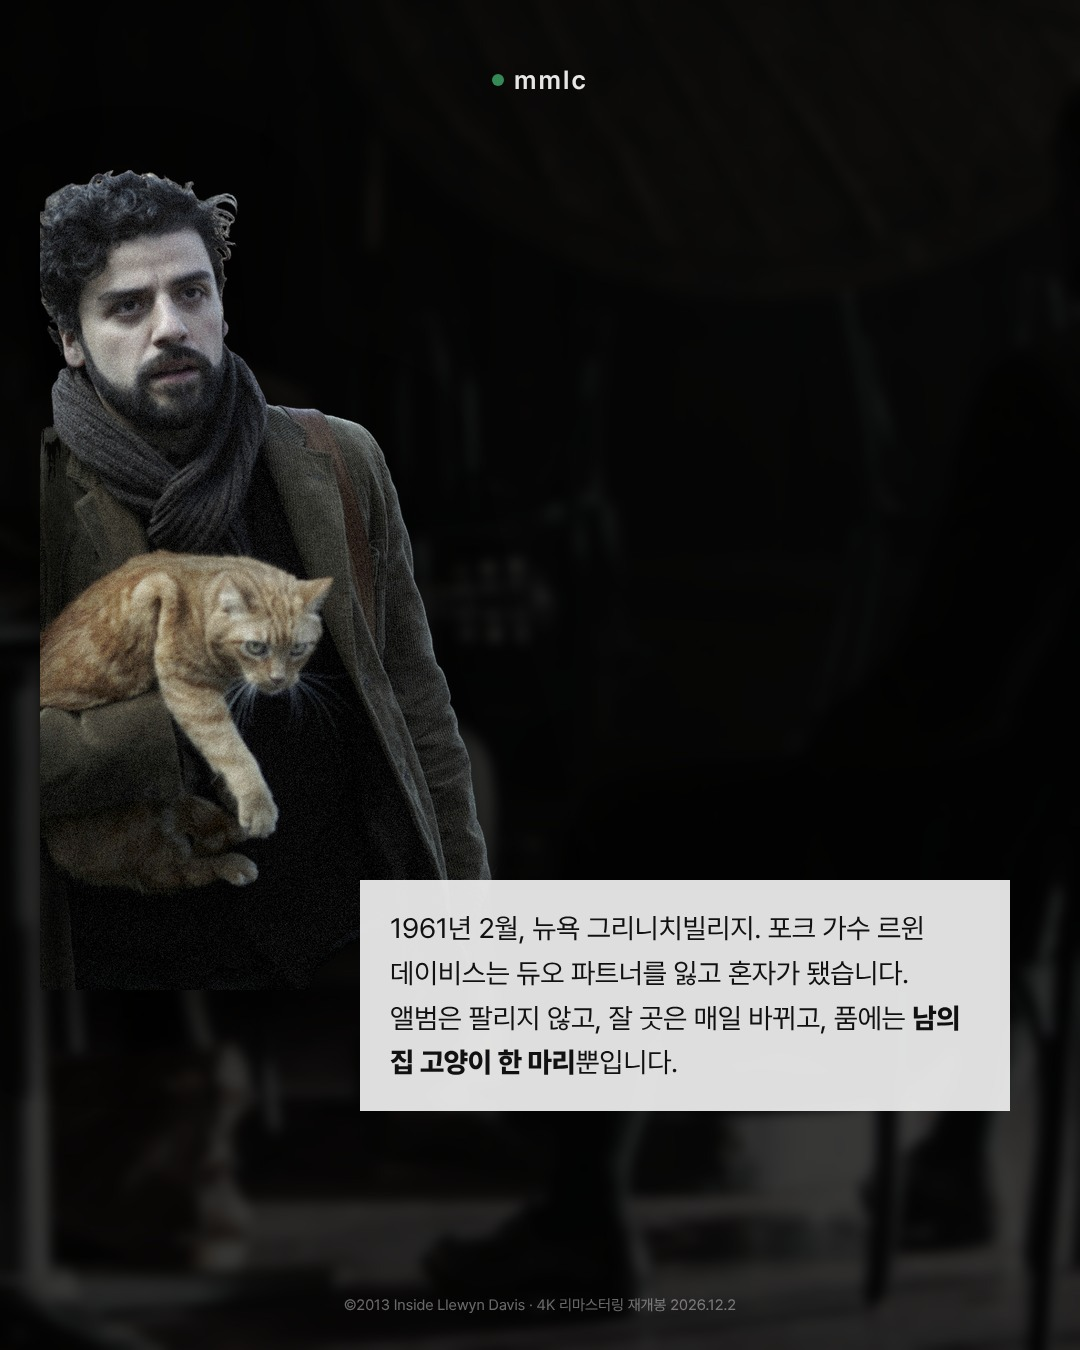
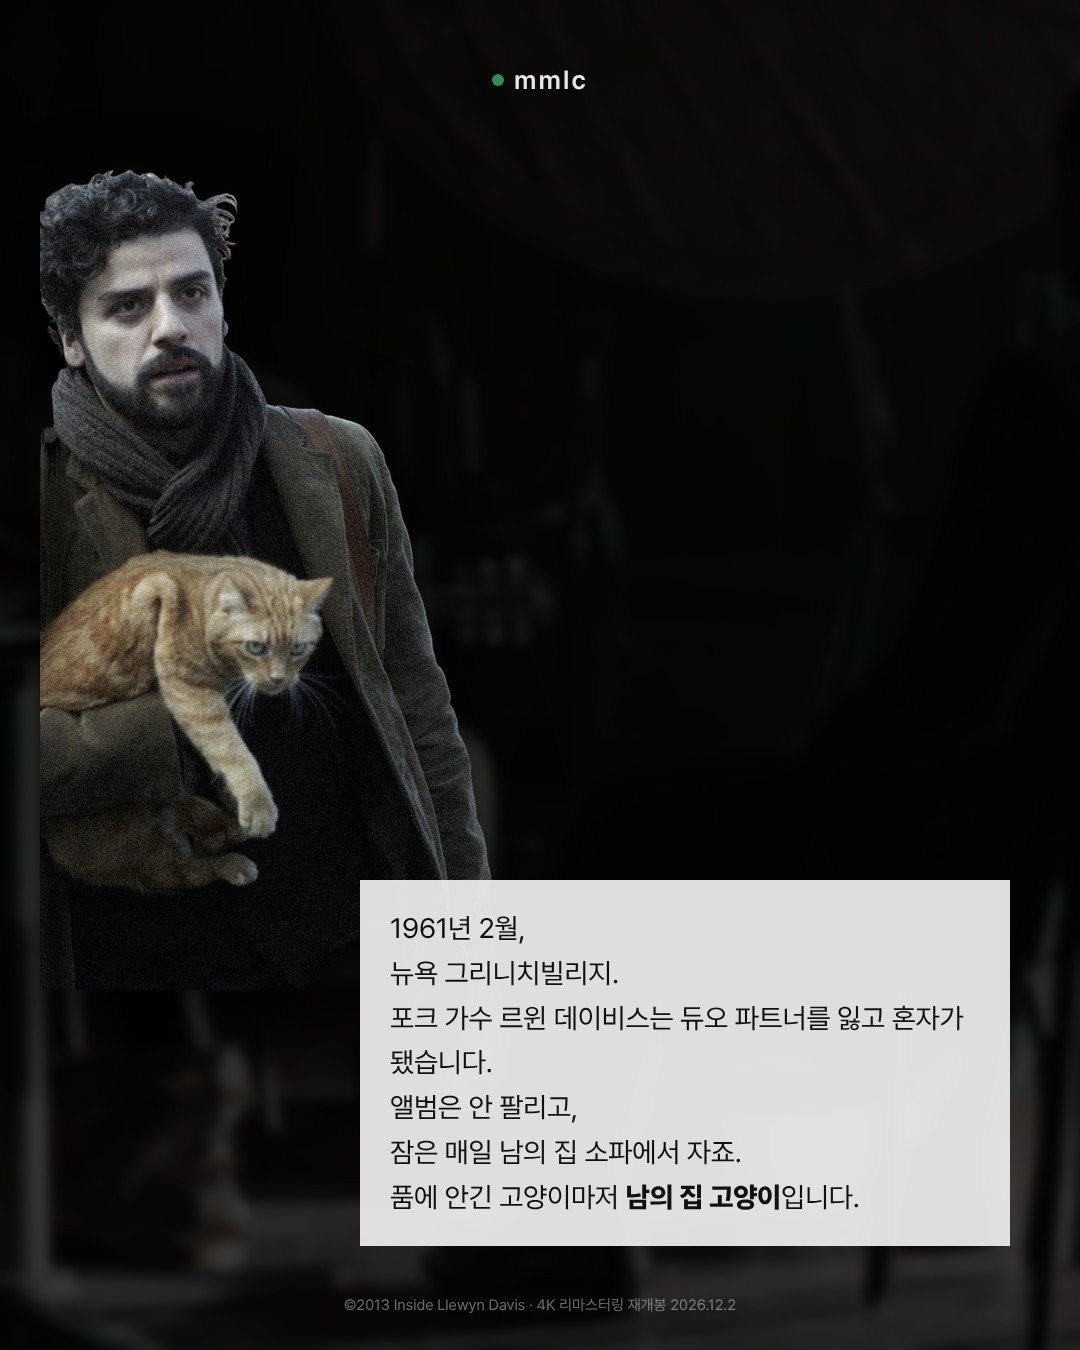
인사이드 르윈: 2~7장 본문 다듬기, 4장 캐스팅 비하인드로 교체
Claude-Session: https://claude.ai/code/session_01VEGji1Wx9t8xn4NvfBmGPJ

Changed region(s): [[0.3361, 0.6844, 0.9472, 0.9333]]

diff --git a/templates/story-article/llewyn/render.py b/templates/story-article/llewyn/render.py
@@ -48,37 +48,37 @@ P.append(wrap(f'<div class="bg" style="background-image:url({b(cov)})"></div><di
 d,cw,ch=png('cut_cat.png',820)
 P.append(wrap(f'''<div class="bg" style="background-image:url({bgdim('st6.jpg',0.5,0.5,0.22,6)})"></div>
 <img class="cut" src="{d}" style="left:40px;top:170px;width:{cw}px">
-<div class="box" style="top:880px;left:360px;right:70px">1961년 2월, 뉴욕 그리니치빌리지. 포크 가수 르윈 데이비스는 듀오 파트너를 잃고 혼자가 됐습니다. 앨범은 팔리지 않고, 잘 곳은 매일 바뀌고, 품에는 <b>남의 집 고양이 한 마리</b>뿐입니다.</div>
+<div class="box" style="top:880px;left:360px;right:70px">1961년 2월,<br>뉴욕 그리니치빌리지.<br>포크 가수 르윈 데이비스는 듀오 파트너를 잃고 혼자가 됐습니다.<br>앨범은 안 팔리고,<br>잠은 매일 남의 집 소파에서 자죠.<br>품에 안긴 고양이마저 <b>남의 집 고양이</b>입니다.</div>
 '''))
 # 3 real model — mic still full + sofa? use mic still as photo
 mic=tone(fit(Image.open('st1.jpg').convert('RGB'),940,560,0.6,0.5))
 P.append(wrap(f'''<div class="bg" style="background:#000"></div>
 <div class="pic" style="left:70px;top:160px;width:940px;height:560px;background-image:url({b(mic)})"></div>
-<div class="box" style="top:780px">르윈의 모델은 실존 포크 가수 <b>데이브 밴 롱크</b>입니다. 코엔 형제는 그의 회고록 『맥두걸 스트리트의 시장』을 읽고 이 영화를 시작했습니다. 밴 롱크는 밥 딜런에게 소파를 내주고 노래를 가르쳐 준 사람이었지만, 끝내 딜런이 되지는 못했습니다.</div>
-<div class="pl" style="top:1060px">이 영화는 성공한 사람이 아니라,<br><b>성공을 지켜만 봐야 했던 사람</b>의 이야기입니다.</div>'''))
+<div class="box" style="top:780px">르윈의 모델은 실존 포크 가수 <b>데이브 반 롱크</b>입니다.<br>코엔 형제는 그의 회고록 『맥두걸 스트리트의 시장』에서 이 영화를 출발시켰죠.<br>반 롱크는 무명이던 밥 딜런을 자기 집 소파에 재워 주던 선배였습니다.</div>
+<div class="pl" style="top:1060px">딜런은 스타가 됐고,<br><b>반 롱크는 그 동네에 남았죠.</b></div>'''))
 # 4 live recording — duet still + studio still
 duet=tone(fit(Image.open('st3.jpg').convert('RGB'),940,400,0.5,0.45)); stu=tone(fit(Image.open('ex4.jpg').convert('RGB'),940,400,0.5,0.5))
 P.append(wrap(f'''<div class="pic" style="left:70px;top:150px;width:940px;height:400px;background-image:url({b(duet)})"></div>
 <div class="pic" style="left:70px;top:560px;width:940px;height:300px;background-image:url({b(stu)})"></div>
-<div class="box" style="top:960px">영화 속 노래는 전부 <b>현장에서 라이브로</b> 불렀습니다.<br>오스카 아이작이 어린 시절부터 기타를 쳐서 어려운 내용은 아니었다고.</div>
+<div class="box" style="top:930px;font-size:26px">코엔 형제의 팬이던 오스카 아이작은 포크 영화 소식을 듣자마자 오디션에 매달렸습니다.<br>'Hang Me, Oh Hang Me'를 <b>4시간 동안 30번 넘게</b> 녹음해,<br>그중 하나를 골라 보냈죠.<br>준비하던 중엔 우연히 반 롱크와 함께 연주했던 기타리스트를 만나 직접 배우기도 했죠.</div>
 '''))
 # 5 cat Ulysses — cat cutout again, bigger, centered-right
 d2,cw2,ch2=png('cut_cat.png',900)
 P.append(wrap(f'''<div class="bg" style="background-image:url({bgdim('st2.jpg',0.2,0.5,0.2,8)})"></div>
 <img class="cut" src="{d2}" style="left:40px;top:{1350-ch2-60}px;width:{cw2}px">
-<div class="box" style="top:170px;left:420px;right:70px">르윈이 하루 종일 안고 다니는 고양이 이름은 <b>율리시스</b>. 호메로스의 『오디세이아』에서 10년을 떠돌다 집으로 돌아온 그 이름이죠.</div>
+<div class="box" style="top:170px;left:420px;right:70px">르윈이 종일 안고 다니는 고양이의 이름은 <b>율리시스</b>.<br>『오디세이아』에서 10년을 떠돌다 집으로 돌아온 영웅의 이름이죠.<br>이 이름은 영화가 거의 끝나서야 밝혀집니다.</div>
 '''))
 # 6 awards — launch poster spotlight
 _pl=Image.open('post_launch1.jpg').convert('RGB'); _pl=tone(_pl.resize((W,int(_pl.height*W/_pl.width)),Image.LANCZOS))
 _top=tuple(int(v) for v in np.median(np.asarray(_pl.crop((0,0,300,30))).reshape(-1,3),0)); _band=grain(Image.new('RGB',(W,140),_top),5)
 P.append(wrap(f'''<div class="bg" style="background:#000"></div><div class="pic" style="left:0;top:0;width:{W}px;height:140px;background-image:url({b(_band)})"></div><div class="pic" style="left:0;top:110px;width:{W}px;height:{_pl.height}px;background-image:url({b(_pl)})"></div><div class="sh" style="height:900px"></div>
-<div class="box" style="top:720px">2013년 제66회 <b>칸영화제 심사위원대상</b>. 전미비평가협회 작품상·감독상·남우주연상·촬영상. 아카데미 촬영상·음향상 후보. 영화제와 시상식에서 174개 부문 후보에 올라 47개를 받았습니다.</div>
+<div class="box" style="top:720px">2013년 <b>칸영화제 심사위원대상</b>.<br>전미비평가협회 작품·감독·남우주연·촬영상 4관왕.<br>아카데미에선 촬영상과 음향상 후보에 올랐습니다.<br>통틀어 174개 부문 후보,<br>47개 수상이죠.</div>
 '''))
 # 7 why now — sofa cutout
 d3,cw3,ch3=png('cut_sofa.png',720)
 P.append(wrap(f'''<div class="bg" style="background-image:url({bgdim('st4.jpg',0.8,0.5,0.22,8)})"></div>
 <img class="cut" src="{d3}" style="left:{1080-cw3-40}px;top:{1350-ch3-70}px;width:{cw3}px">
-<div class="box" style="top:170px;left:70px;right:330px">2014년 1월 국내 개봉 이후 <b>12년 만의 극장 귀환</b>입니다. 이번엔 4K 화질로 리마스터링되어, 브뤼노 델보넬의 겨울빛 촬영과 라이브로 녹음된 노래를 극장에서 다시 듣고 볼 수 있는 기회입니다.</div>
+<div class="box" style="top:170px;left:70px;right:330px">국내에선 2014년 1월에 개봉했습니다.<br>그로부터 <b>12년</b>,<br>4K 리마스터링으로 다시 극장에 걸립니다.<br>브뤼노 델보넬이 찍은 잿빛 겨울과,<br>현장에서 라이브로 부른 노래를 큰 화면으로 다시 만날 기회죠.</div>
 '''))
 # 8 event
 d4,cw4,ch4=png('cut_phone.png',620)

diff --git a/templates/story-article/llewyn/HANDOFF.md b/templates/story-article/llewyn/HANDOFF.md
@@ -33,3 +33,8 @@
 - 1장: 포스터 손글씨가 잘려 보이던 것 제거(안쪽 사진만 크롭), 로고를 표지 로고는 본문과 같은 초록 점 + mmlc로 통일 (Kyo 지시)
 - 6장: 포스터를 110px 내려 mmlc 로고와 제목 겹침 해소(위쪽은 포스터 배경색 띠로 채움)
 - 4장 맞춤법, 8장 기간 확정
+
+## 11/10 오후 수정 (Kyo 승인)
+- 표지 로고: 박스 로고 취소 → 본문과 같은 초록 점 + mmlc
+- 2~7장 본문 전면 수정: 온점·쉼표 줄바꿈, ~습니다/~죠 혼용, "A가 아니라 B" 펀치라인 제거, 표기 "반 롱크"로 통일
+- 4장: 라이브 녹음 → 오스카 아이작 캐스팅 비하인드(Hang Me 4시간 30번 녹음, 반 롱크 동료에게 기타 배움)로 교체, 펀치라인 박스 없음 / 라이브 녹음 언급은 7장으로 이동
